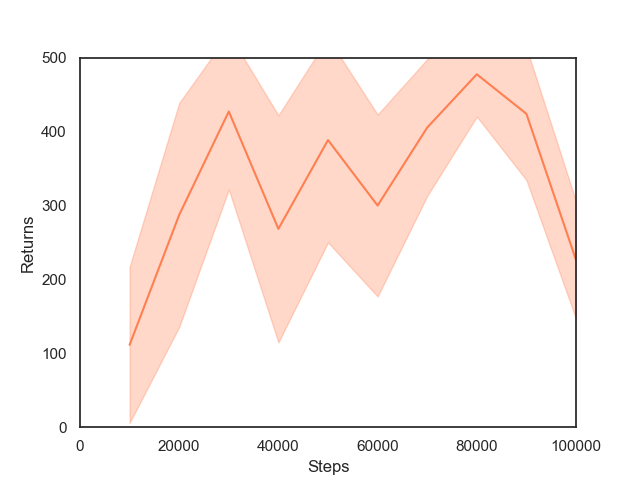
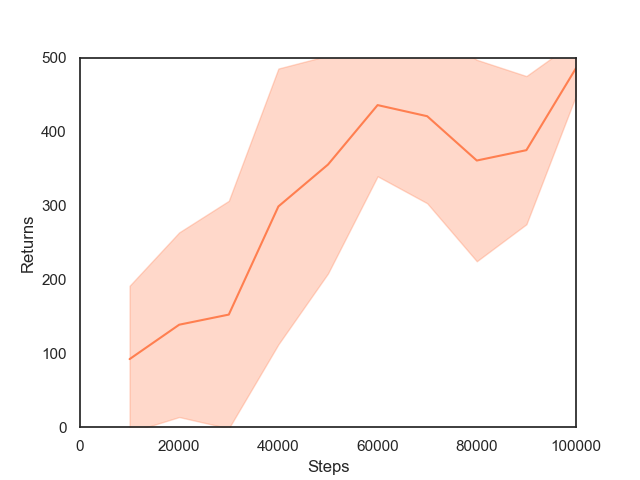
Add median heuristic for GMMIL

diff --git a/models.py b/models.py
@@ -19,8 +19,8 @@ def _squared_distance(X, Y, lengthscale=1):
 
 
 # Gaussian/radial basis function/exponentiated quadratic kernel
-def _gaussian_kernel(X, Y, variance=1, lengthscale=1):
-  return variance * torch.exp(-0.5 * _squared_distance(X, Y, lengthscale=lengthscale))
+def _gaussian_kernel(distances, gamma=1):
+  return torch.exp(-gamma * distances)
 
 
 class Actor(nn.Module):
@@ -78,12 +78,20 @@ class GMMILDiscriminator(nn.Module):
   def __init__(self, state_size, action_size, state_only=True):
     super().__init__()
     self.action_size, self.state_only = action_size, state_only
+    self.gamma_1, self.gamma_2 = None, None
 
   def predict_reward(self, state, action, expert_state, expert_action):
     state_action = state if self.state_only else _join_state_action(state, action, self.action_size)
     expert_state_action = expert_state if self.state_only else _join_state_action(expert_state, expert_action, self.action_size)
-    # TODO: Use median heuristics to select 2 data-dependent bandwidths
-    return _gaussian_kernel(state_action, expert_state_action).mean(dim=1)  # Return maximum mean discrepancy
+    
+    # Use median heuristics to set data-dependent bandwidths
+    if self.gamma_1 is None:
+      self.gamma_1 = 1 / _squared_distance(state_action, expert_state_action).median().item()
+      self.gamma_2 = 1 / _squared_distance(expert_state_action, expert_state_action).median().item()
+
+    # Return sum of maximum mean discrepancies
+    distances = _squared_distance(state_action, expert_state_action)
+    return _gaussian_kernel(distances, gamma=self.gamma_1).mean(dim=1) + _gaussian_kernel(distances, gamma=self.gamma_2).mean(dim=1)
 
 
 class AIRLDiscriminator(nn.Module):
@@ -111,28 +119,29 @@ class AIRLDiscriminator(nn.Module):
 
 
 class EmbeddingNetwork(nn.Module):
-  def __init__(self, state_size, action_size, hidden_size, state_only=False):
+  def __init__(self, input_size, hidden_size):
     super().__init__()
-    self.action_size, self.state_only = action_size, state_only
-    self.embedding = nn.Sequential(nn.Linear(state_size if state_only else state_size + action_size, hidden_size), nn.Tanh(), nn.Linear(hidden_size, hidden_size), nn.Tanh(), nn.Linear(hidden_size, state_size if state_only else state_size + action_size))
+    self.embedding = nn.Sequential(nn.Linear(input_size, hidden_size), nn.Tanh(), nn.Linear(hidden_size, hidden_size), nn.Tanh(), nn.Linear(hidden_size, input_size))
 
-  def forward(self, state, action):
-    return self.embedding(state if self.state_only else _join_state_action(state, action, self.action_size))
+  def forward(self, input):
+    return self.embedding(input)
 
 
 class REDDiscriminator(nn.Module):
   def __init__(self, state_size, action_size, hidden_size, state_only=False):
     super().__init__()
     self.action_size, self.state_only = action_size, state_only
-    self.predictor = EmbeddingNetwork(state_size, action_size, hidden_size, state_only=state_only)
-    self.target = EmbeddingNetwork(state_size, action_size, hidden_size, state_only=state_only)
+    self.gamma = None
+    self.predictor = EmbeddingNetwork(state_size if state_only else state_size + action_size, hidden_size)
+    self.target = EmbeddingNetwork(state_size if state_only else state_size + action_size, hidden_size)
     for param in self.target.parameters():
       param.requires_grad = False
 
   def forward(self, state, action):
-    prediction, target = self.predictor(state, action), self.target(state, action)
+    state_action = state if self.state_only else _join_state_action(state, action, self.action_size)
+    prediction, target = self.predictor(state_action), self.target(state_action)
     return prediction, target
 
   def predict_reward(self, state, action, sigma=1):  # TODO: Set sigma based such that r(s, a) from expert demonstrations ≈ 1
     prediction, target = self.forward(state, action)
-    return torch.exp(-sigma * F.pairwise_distance(prediction, target, p=2).pow(2))
+    return _gaussian_kernel(F.pairwise_distance(prediction, target, p=2).pow(2), gamma=1)

diff --git a/training.py b/training.py
@@ -9,7 +9,7 @@ from torch.utils.data import DataLoader, Dataset
 class TransitionDataset(Dataset):
   def __init__(self, transitions):
     super().__init__()
-    self.states, self.actions, self.rewards, self.terminals = transitions['states'], transitions['actions'].detach(), transitions['rewards'], transitions['terminals']
+    self.states, self.actions, self.rewards, self.terminals = transitions['states'], transitions['actions'].detach(), transitions['rewards'], transitions['terminals']  # Detach actions
 
   # Allows string-based access for entire data of one type, or int-based access for single transition
   def __getitem__(self, idx):

diff --git a/main.py b/main.py
@@ -78,6 +78,7 @@ for step in pbar:
         elif args.imitation == 'RED':
           # Train predictor network to match random target network
           target_estimation_update(discriminator, expert_trajectories, discriminator_optimiser, args.imitation_batch_size)
+
   if args.imitation != 'BC':
     # Collect set of trajectories by running policy π in the environment
     policy, value = agent(state)
